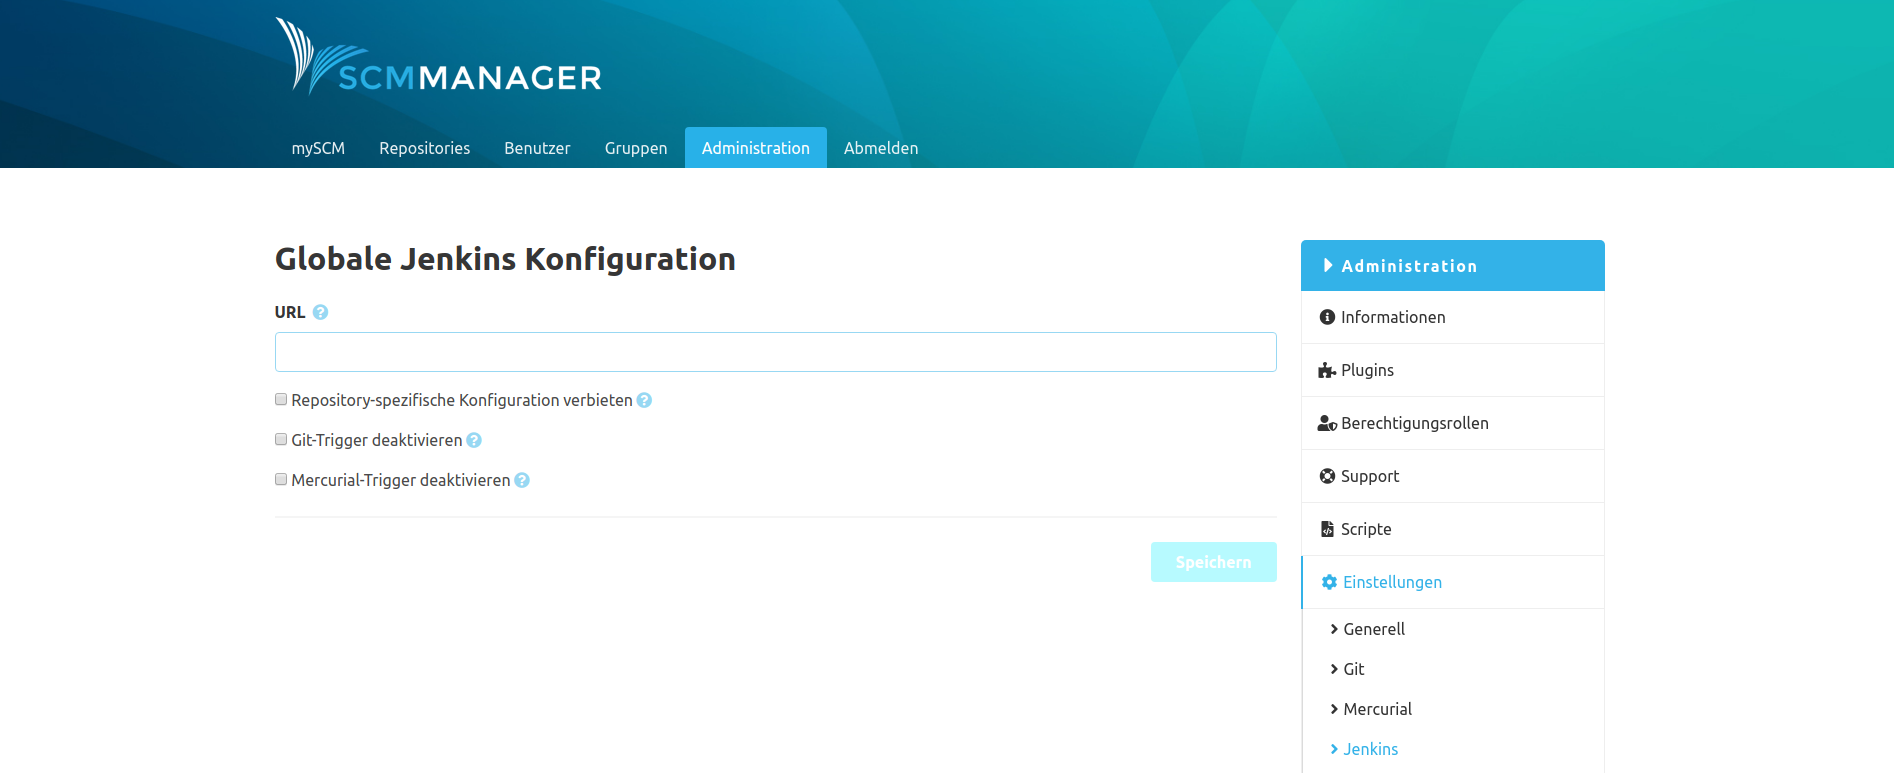
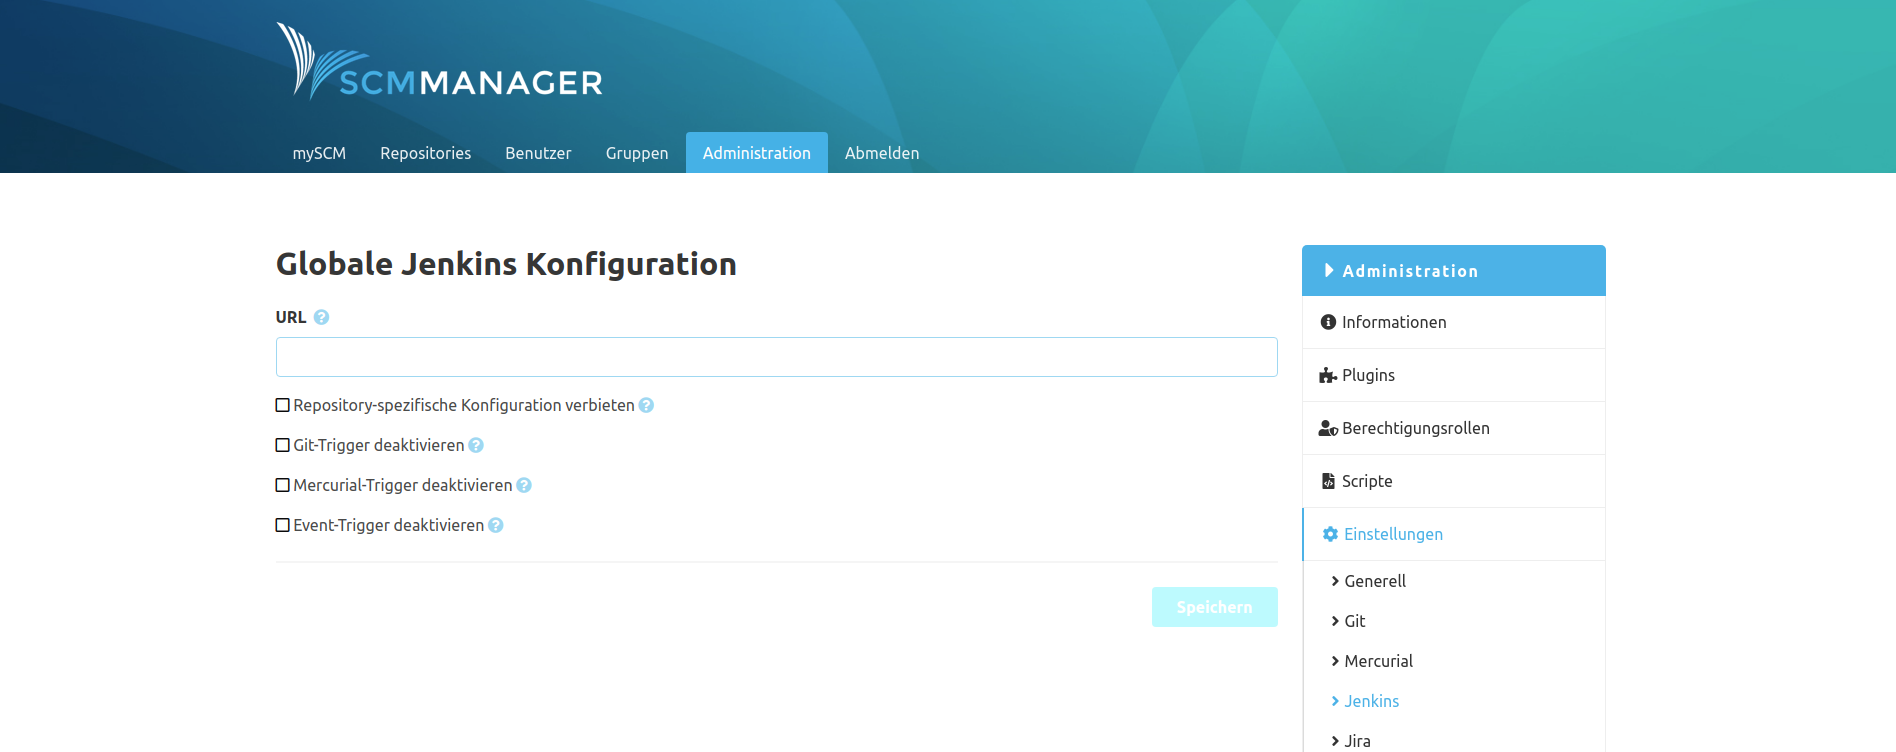
Adapt documentation

diff --git a/docs/de/configuration/index.md b/docs/de/configuration/index.md
@@ -5,7 +5,7 @@ Wie im SCM-Manager 2 üblich, gibt es eine globale und eine repository-spezifisc
 
 ### Globale Konfiguration
 Über die globale Jenkins Konfiguration lassen sich die Jenkins Instanz-URL und die VCS Trigger konfigurieren. 
-Außerdem kann dort die repository-spezifische Konfiguration deaktiviert werden.
+Außerdem können dort die repository-spezifische Konfiguration sowie das Senden der Event-Trigger deaktiviert werden.
 
 ![Jenkins Globale Konfiguration](assets/global-config.png)
 
